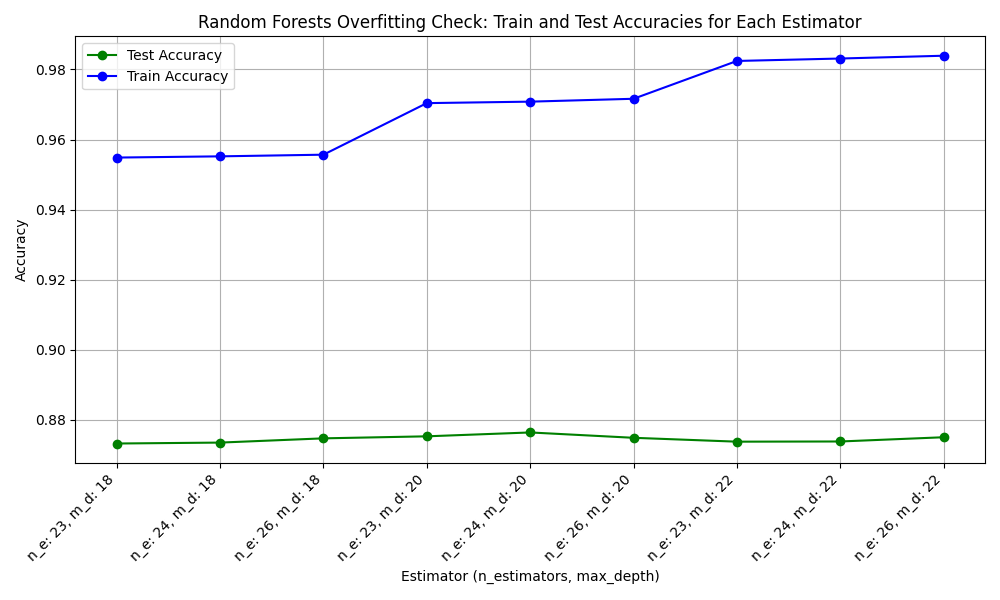
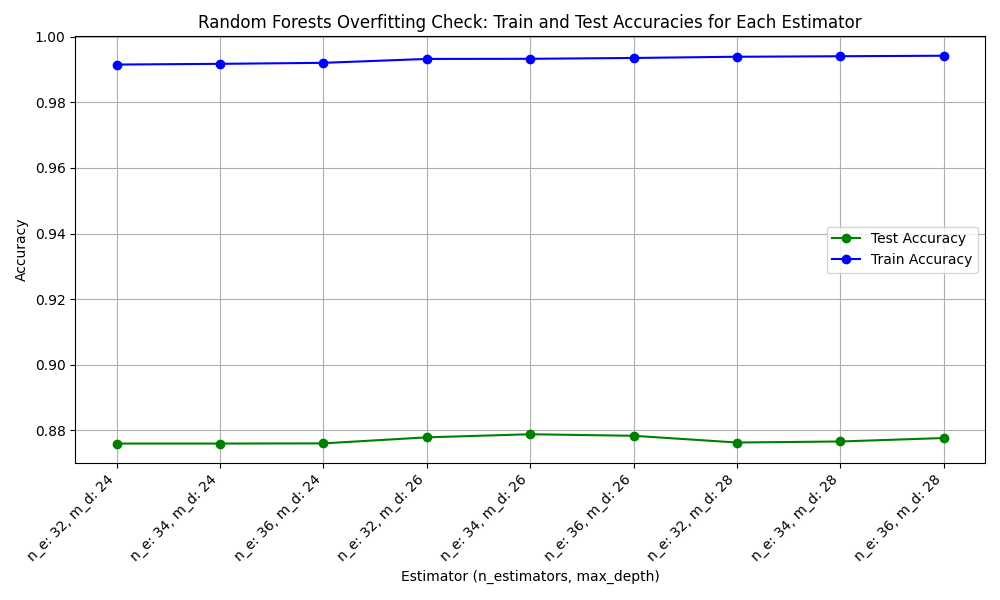
RF fitting

diff --git a/src/random_forest.py b/src/random_forest.py
@@ -6,14 +6,20 @@ from sklearn.model_selection import GridSearchCV
 
 from data_prep import X_train, X_test, y_train, y_test, X
 
-# Initialize and train the RandomForestClassifier
-rf = RandomForestClassifier(random_state=42)
-
 param_grid = {
-    'n_estimators': [23, 24, 26],
-    'max_depth': [18, 20, 22],
+    'n_estimators': [32, 34, 36],
+    'max_depth': [24, 26, 28],
     'bootstrap': [True]
 }
+
+# Parameters to choose from
+# 'min_samples_split': [2, 5, 10],
+# 'min_samples_leaf': [1, 2, 4],
+# 'max_features': ['sqrt', 'log2'],
+# 'criterion': ['gini', 'entropy']
+
+# Initialize and train the RandomForestClassifier
+rf = RandomForestClassifier(random_state=42)
 
 # Set up GridSearchCV (Cross Validation)
 grid_search = GridSearchCV(estimator=rf, param_grid=param_grid, cv=6, n_jobs=-1, verbose=2, scoring='accuracy',
@@ -23,7 +29,8 @@ grid_search = GridSearchCV(estimator=rf, param_grid=param_grid, cv=6, n_jobs=-1,
 grid_search.fit(X_train, y_train)
 
 # Print the best hyperparameters
-print("Best parameters found: ", grid_search.best_params_)
+print("Best parameters found:")
+print(grid_search.best_params_)
 
 # Get the best estimator from the grid search
 best_rf = grid_search.best_estimator_

diff --git a/src/data_prep.py b/src/data_prep.py
@@ -9,6 +9,7 @@ from collections import Counter
 pd.options.display.max_columns = None
 df = pd.read_csv('/Users/audrius/Documents/VCSPython/ml-classification/data/HotelReservations.csv')
 print(df.info())
+
 print("\nUniques:")
 print(f"Type of meal plan: {df['type_of_meal_plan'].unique()}")
 print(f"Room type reserved: {df['room_type_reserved'].unique()}")
@@ -18,6 +19,7 @@ print(f"Booking status: {df['booking_status'].unique()}")
 # 2. Handle missing values (if any)
 df = df.dropna()  # Or: df = df.fillna(df.mean())
 df = df.drop(df.columns[[0]], axis=1)
+print('DF Columns: ', df.columns)
 
 # 3. Identify categorical columns (if needed) and apply LabelEncoder:
 categorical_columns = df.select_dtypes(include=['object']).columns
@@ -81,6 +83,9 @@ if num_to_move > 0:
 # Print the updated distribution
 print(f"Updated y_train class distribution: {Counter(y_train)}")
 print(f"Updated y_test class distribution: {Counter(y_test)}")
+
+# # Alternative distribution solution
+# df_sampled = df.groupby('Class').sample(n=100, random_state=1)
 
 # Calculate the correlation matrix for numeric columns
 correlation_matrix = df.corr()

diff --git a/README.md b/README.md
@@ -4,13 +4,38 @@ Classification is a supervised machine learning method where the model tries to 
 correct label of a given input data. In classification, the model is fully trained using 
 the training data, and then it is evaluated on test data before being used to perform 
 prediction on new unseen data.
+### Dataset and it's Features
+Can you predict if customer is going to cancel the reservation ?\
+A significant number of hotel reservations are called-off due to cancellations or no-shows. The typical reasons 
+for cancellations include change of plans, scheduling conflicts, etc. This is often made easier by the option 
+to do so free of charge or preferably at a low cost which is beneficial to hotel guests, but it is a less desirable 
+and possibly revenue-diminishing factor for hotels to deal with.\
+A [Kaggle Hotel Reservations Dataset](https://www.kaggle.com/datasets/ahsan81/hotel-reservations-classification-dataset)\ 
+is used for the project.\
+Dataset has **36275 entries, 19 columns**. One of them (booking_status) is the target column, 12 features columns
+with data type of integer or float and 4 features columns with data type of object.\
+### Data Correlation
+**Data Correlation** (a statistical indicator that quantifies the degree to which two variables change in relation to each 
+other) of the Dataset *does not show clear correlation* between data columns, except two minor dependencies:\
+- no_of_previous_bookings_not_canceled / repeated_guest - 0,54
+- avg_price_per_room / room_type_reserved - 0,47
+- lead_time / booking_status - -0,44
+After removing these tree features from dataset result was 0.8624 for Logistic Regression and 0.8414 for Random Forest.\ 
+![Data Correlation Plot](./img/Figure_data_correlation.png)\
+### Dataset Balancing
+**Dataset is unbalanced** - initial train data class distribution is 19512 for not canceled bookings to 9508 
+canceled bookings.
+After Train *Dataset Balancing* class distribution is 9508 for not canceled booking to 9508 canceled booking.
+### Data Normalization
+Min-Max scaling and Z-score normalization (standardization) are the two fundamental techniques 
+for normalization.
 ### Classification Algorithms Evaluated
 - Logistic Regression
 - Decision Tree
 - Random Forests
 - K-Nearest Neighbours
 - Naive Bayes
-### Metrics used for Classification Models Evaluation
+### Models Evaluation Metrics used
 **Accuracy:** The proportion of correctly classified instances over the total number 
 of instances in the test set.\
 **Precision:** Precision measures the proportion of true positives over the total number of predicted positives.\
@@ -22,57 +47,44 @@ recall).\
 and false negatives for each class, which can be used to calculate various evaluation metrics.\
 **Cross-validation:** A technique that divides the data into multiple folds and trains the model on each fold 
 while testing on the others, to obtain a more robust estimate of the model’s performance.
-### Dataset and it's Features
-Can you predict if customer is going to cancel the reservation ?\
-A significant number of hotel reservations are called-off due to cancellations or no-shows. The typical reasons 
-for cancellations include change of plans, scheduling conflicts, etc. This is often made easier by the option 
-to do so free of charge or preferably at a low cost which is beneficial to hotel guests, but it is a less desirable 
-and possibly revenue-diminishing factor for hotels to deal with.\
-A [Kaggle Hotel Reservations Dataset](https://www.kaggle.com/datasets/ahsan81/hotel-reservations-classification-dataset)\ 
-is used for the project.\
-Dataset has **36275 entries, 19 columns**. One of them (booking_status) is the target column, 12 features columns
-with data type of integer or float and 4 features columns with data type of object.\
-![Classifier Data Correlation Plot](./img/Figure_data_correlation.png)\
-**Dataset is unbalanced** - initial train data class distribution is 19512 for not canceled bookings to 9508 
-canceled bookings.
-After Train *Dataset Balancing* class distribution is 9508 for not canceled booking to 9508 canceled booking.
-## Initial Evaluation results
+### Initial Evaluation results
 Classifiers Performance Metrics on Hotel Reservations Dataset are:
 ![Classifier Performance Metrics Table](./img/Table_1.png)
 ![Classifier Performance Metrics Figure](./img/Figure_1.png)
-## Evaluation results after models tuning
-Two models were tuned: Logistic Regression and Random Forest Classifier.
+### Models fitting
+Two models were fitted: Logistic Regression and Random Forest Classifier.
 ### Logistic Regression
 The certain set of a thresholds was used to find the best threshold for the Logistic Regression model: 
 ![Classifier Performance Metrics Table](./img/Figure_logistic.png)
 The best fitted threshold and corresponding accuracy is:
 ![Classifier Performance Metrics Table](./img/Table_logistic.png)
 ### Random Forests
-The GridSearch Cross Validation method was used to find the best parameters for the Random Forest model:
+Initially 3 parameters for a model tuning was used: n_estimators, max_depth and bootstrap. 
 ![Classifier Performance Metrics Plot](./img/Figure_random_forest.png)
-## Overfitting Check
+Later additional 4 params were introduced: min_samples_split, min_samples_leaf, max_features, criterion.
+The GridSearch Cross Validation method was used to find the best parameters for the Random Forest model:
+![Classifier Performance Metrics Plot](./img/Screen_rf_best_params.png)
+![Classifier Performance Metrics Plot](./img/Screen_rf_Accuracy_7.png)
+### Overfitting Check
 ![Classifier Overfitting Plot](./img/Figure_lr_overfitting.png)
 ![Classifier Overfitting Plot](./img/Figure_rf_overfitting.png)
-## Data Normalization
-Min-Max scaling and Z-score normalization (standardization) are the two fundamental techniques 
-for normalization. 
-## Features Importance
+### Features Importance
 ![Classifier Feature Importance Plot](./img/Figure_features_importance.png)
-## Final Results
+### Final Results
 | Model               | Accuracy          | Overfitting distance |
 |---------------------|-------------------|----------------------|
-| Logistic Regression | 0.8857            |                      |
-| Random Forests      | 0.8928            |                      |
+| Logistic Regression | 0.8857            | 0,2317               |
+| Random Forests      | 0.8928            | 0,1                  |
 ### Project status
 Way forward:
-- Check for model overfitting.
-- Evaluate feature normalisation possibilities.
-- Evaluate feature importance.
-- Check for data correlation.
-- Introduce more params fo Random Forest model.
+- Check for data correlation (+).
+- Features normalisation (+).
+- Check for model overfitting (+).
+- Evaluate feature importance (+).
+- Introduce more params fo Random Forest model (+).
 ### Contributing
 Contributions are welcome! Please open an issue or submit a pull request if you have any improvements or bug fixes.
 ### Resources
-[Data Set Link](https://www.kaggle.com/datasets/ahsan81/hotel-reservations-classification-dataset)
+[Kaggle Hotel Reservations Dataset Link](https://www.kaggle.com/datasets/ahsan81/hotel-reservations-classification-dataset)
 ### License
 This project is licensed under the MIT License.
